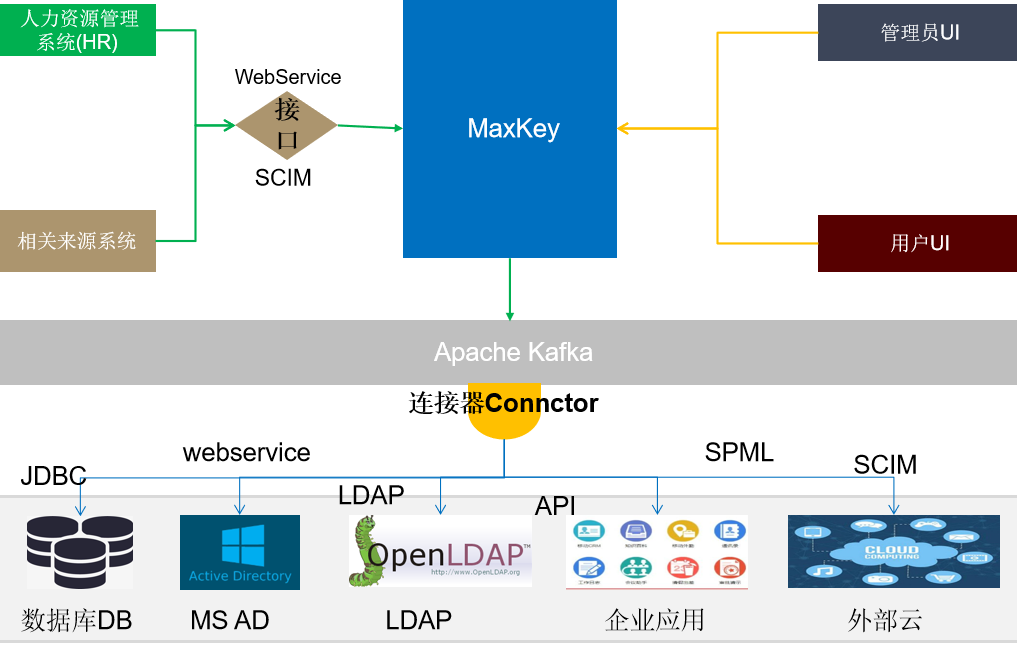
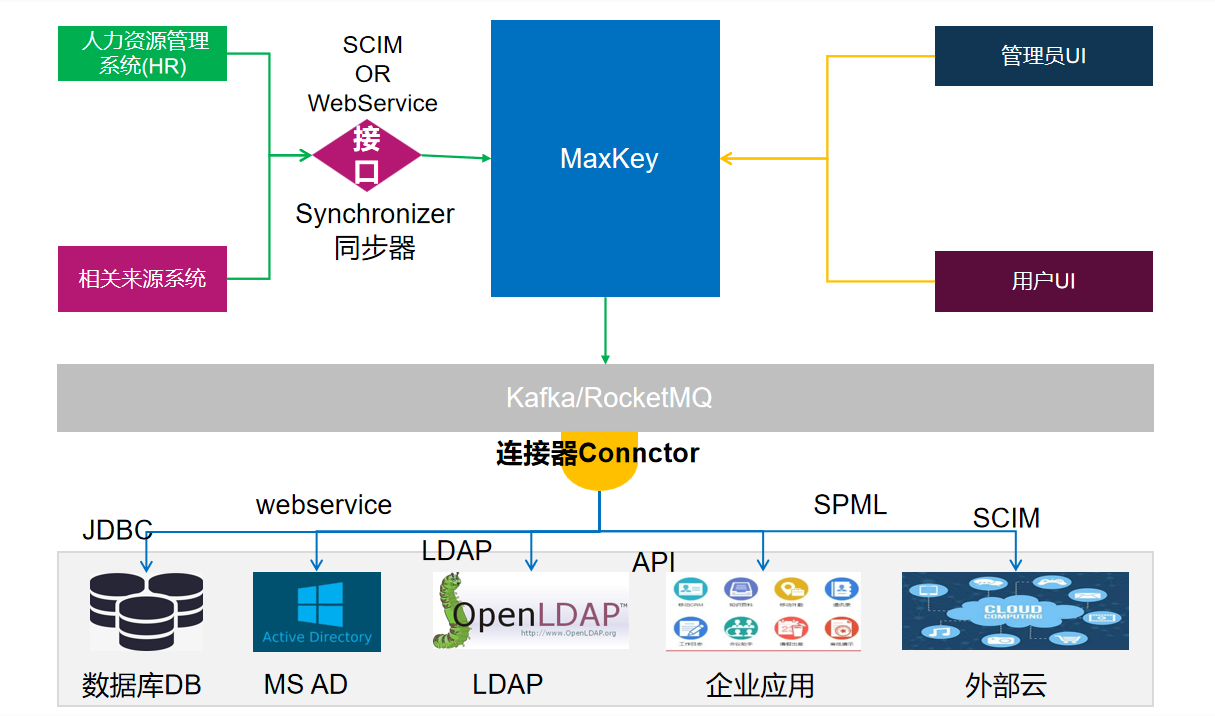
im

diff --git a/zh/about/welcome.md b/zh/about/welcome.md
@@ -134,17 +134,18 @@ QQ交流群：<b>434469201</b>
 
 1. 提供标准的认证接口以便于其他应用集成SSO，安全的移动接入，安全的API、第三方认证和互联网认证的整合。
 
-2. 提供用户生命周期管理，支持SCIM 2协议和REST接口；基于Apache Kafka代理，通过连接器(Connector)实现身份供给同步。
+2. 提供用户生命周期管理，支持SCIM 2协议；开箱即用的连接器(Connector)实现身份供给同步。
 
-3. 认证中心具有平台无关性、环境多样性，支持Web、手机、移动设备等, 如Apple iOS，Andriod等，将认证能力从B/S到移动应用全面覆盖。
+3. 简化微软Active Directory域控、标准LDAP服务器机构和账号管理，密码自助服务重置密码。
 
-4. 多种认证机制并存，各应用系统可保留原有认证机制，同时集成认证中心的认证；应用具有高度独立性，不依赖认证中心，又可用使用认证中心的认证，实现单点登录。
+4. 认证多租户功能，支持集团下多企业独立管理或企业下不同部门数据隔离的，降低运维成本。
 
-5. 认证多租户功能，支持集团下多企业独立管理或企业下不同部门数据隔离的，降低运维成本。
+5. 认证中心具有平台无关性、环境多样性，支持Web、手机、移动设备等, 如Apple iOS，Andriod等，将认证能力从B/S到移动应用全面覆盖。
 
-6. 基于Java平台开发，采用Spring、MySQL、Tomcat、Apache Kafka、Redis等开源技术，支持微服务，扩展性强。  
+6. 基于Java EE平台，微服务架构，采用Spring、MySQL、Tomcat、Redis、Kafka、RocketMQ等开源技术，扩展性强。  
 
-7. 开源、安全、自主可控，许可证 Apache License Version 2.0。 
+7. 开源、安全、自主可控，许可证 Apache 2.0 License & <a href="https://maxkey.top/zh/about/licenses.html" target="_blank">MaxKey版权声明</a>。 
+
 
 <h2>最有价值开源项目</h2>
 Gitee-最有价值开源项目

diff --git a/zh/im/im.md b/zh/im/im.md
@@ -8,7 +8,7 @@ layout: zh/default
 
 计算机处理有关人的数据记录。此类记录包含为其创建和管理帐户的系统所需的技术信息。
 
-**（数字）身份**
+**数字身份**
 
 由一个数字主体对其自身提出的一组主张的表现。 确认是你！
 
@@ -23,7 +23,7 @@ layout: zh/default
 
 <h3>MaxKey身份管理架构</h3>
 
-基于**Apache Kafka**和MaxKey身份连接器(**Connector**)的管理架构
+基于**MQ(Message Queue消息中间件)**和MaxKey身份连接器(**Connector**)的管理架构
 
 <img src="{{ "/static/images/im/maxkey_im.png" | prepend: site.baseurl }}?{{ site.time | date: "%Y%m%d%H%M" }}"  alt=""/>
 
